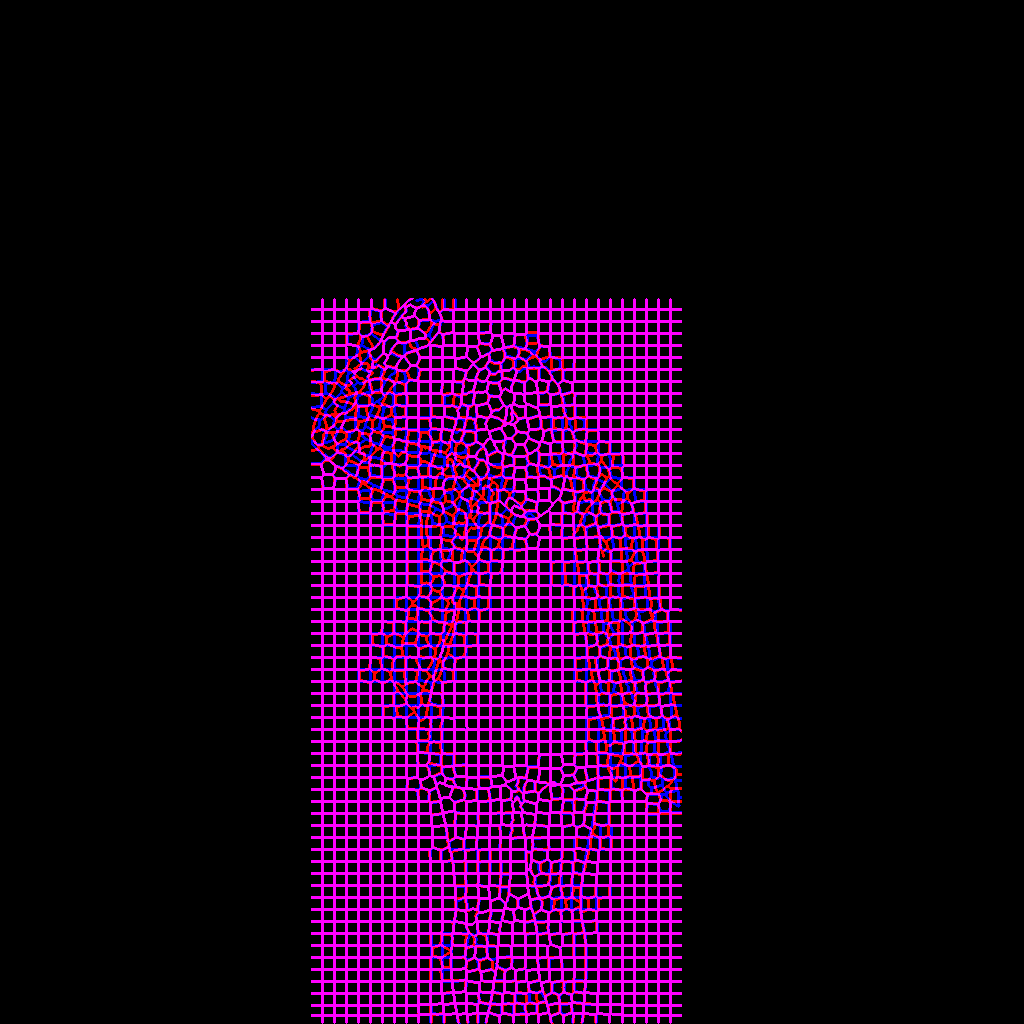
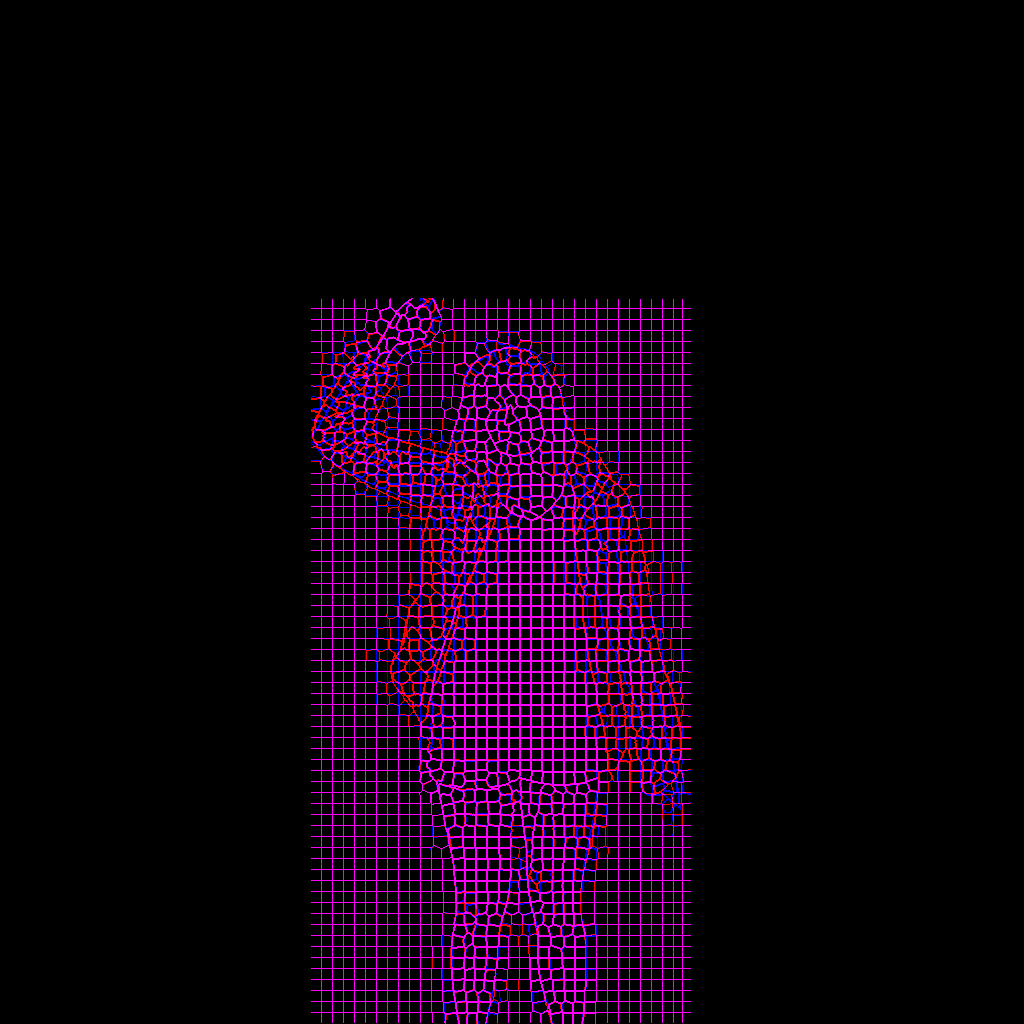
Tried fixing the minor missing edges

Changed region(s): [[0.2812, 0.2812, 0.6875, 1.0]]

diff --git a/danny-mirror/super-pixels-v2/super_pixel_masking.py b/danny-mirror/super-pixels-v2/super_pixel_masking.py
@@ -26,8 +26,8 @@ def get_union_bbox(alpha1, alpha2):
     if ys.size == 0 or xs.size == 0:
         h, w = alpha1.shape
         return 0, h, 0, w
-    ymin, ymax = ys.min(), ys.max() + 1
-    xmin, xmax = xs.min(), xs.max() + 1
+    ymin, ymax = ys.min(), ys.max() + 10
+    xmin, xmax = xs.min(), xs.max() + 10
     return ymin, ymax, xmin, xmax
 
 
@@ -35,7 +35,7 @@ def run_slic_like_notebook(img):
     img_float = img_as_float(img)
     labels = slic(
         img_float,
-        n_segments=2000,
+        n_segments=2100,
         compactness=20,
         sigma=1,
         start_label=1,
@@ -89,7 +89,7 @@ def boundaries_to_rgb(orig_bounds, edit_bounds):
 
 def main():
     parser = argparse.ArgumentParser(
-        description="Crop to visible area, run superpixel boundaries, and paste result back into full-size image."
+        description="Crop to visible area, run superpixel boundaries, and paste back to full size."
     )
     parser.add_argument("original", help="path to original.png")
     parser.add_argument("edited", help="path to edited.png")
@@ -135,29 +135,46 @@ def main():
     orig_labels = run_slic_like_notebook(orig_img_c)
     edit_labels = run_slic_like_notebook(edit_img_c)
 
-    # 5) boundaries on cropped
-    orig_bounds = find_boundaries(orig_labels, mode="inner")
-    edit_bounds = find_boundaries(edit_labels, mode="inner")
+    # 5) raw boundaries on cropped (keep a copy!)
+    orig_bounds_raw = find_boundaries(orig_labels, mode="inner")
+    edit_bounds_raw = find_boundaries(edit_labels, mode="inner")
 
-    # 6) transparency filtering on cropped
+    # 6) transparency filtering (pixel-level) on cropped
     if not args.keep_transparent:
         orig_touch_real = local_nontransparent(orig_alpha_c)
         edit_touch_real = local_nontransparent(edit_alpha_c)
-        orig_bounds &= orig_touch_real
-        edit_bounds &= edit_touch_real
+        orig_bounds = orig_bounds_raw & orig_touch_real
+        edit_bounds = edit_bounds_raw & edit_touch_real
+    else:
+        # keep everything
+        orig_bounds = orig_bounds_raw.copy()
+        edit_bounds = edit_bounds_raw.copy()
 
     # 7) thin on cropped
-    orig_bounds = thin_boundaries(orig_bounds, thickness=args.thickness)
-    edit_bounds = thin_boundaries(edit_bounds, thickness=args.thickness)
+    orig_bounds_thin = thin_boundaries(orig_bounds, thickness=args.thickness)
+    edit_bounds_thin = thin_boundaries(edit_bounds, thickness=args.thickness)
 
-    # 8) colorize CROPPED
-    out_cropped = boundaries_to_rgb(orig_bounds, edit_bounds)
+    # 8) NEW: ensure full borders for any label that has visible pixels
+    # find labels that actually contain nontransparent pixels
+    visible_orig_labels = np.unique(orig_labels[orig_alpha_c])
+    visible_edit_labels = np.unique(edit_labels[edit_alpha_c])
 
-    # 9) paste back into FULL-SIZE canvas
+    # for those labels, re-add their raw boundaries (pre-thinning) so edges aren't missing
+    orig_visible_mask = np.isin(orig_labels, visible_orig_labels)
+    edit_visible_mask = np.isin(edit_labels, visible_edit_labels)
+
+    # re-impose
+    orig_bounds_final = orig_bounds_thin | (orig_visible_mask & orig_bounds_raw)
+    edit_bounds_final = edit_bounds_thin | (edit_visible_mask & edit_bounds_raw)
+
+    # 9) colorize CROPPED
+    out_cropped = boundaries_to_rgb(orig_bounds_final, edit_bounds_final)
+
+    # 10) paste back to FULL SIZE
     full_out = np.zeros((H, W, 3), dtype=np.uint8)
     full_out[ymin:ymax, xmin:xmax, :] = out_cropped
 
-    # 10) save
+    # 11) save
     io.imsave(args.out, full_out)
     print(
         f"✅ Saved full-size boundary image to {os.path.abspath(args.out)} "
